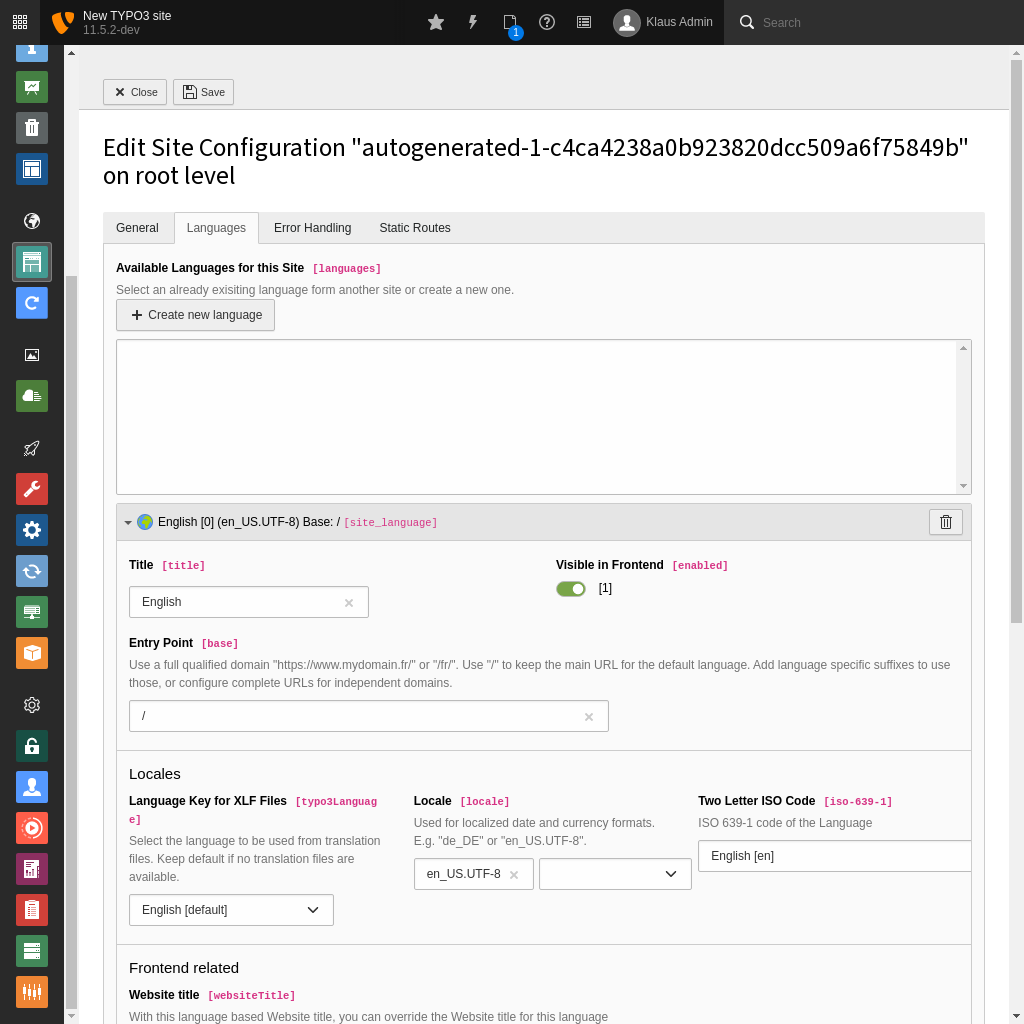
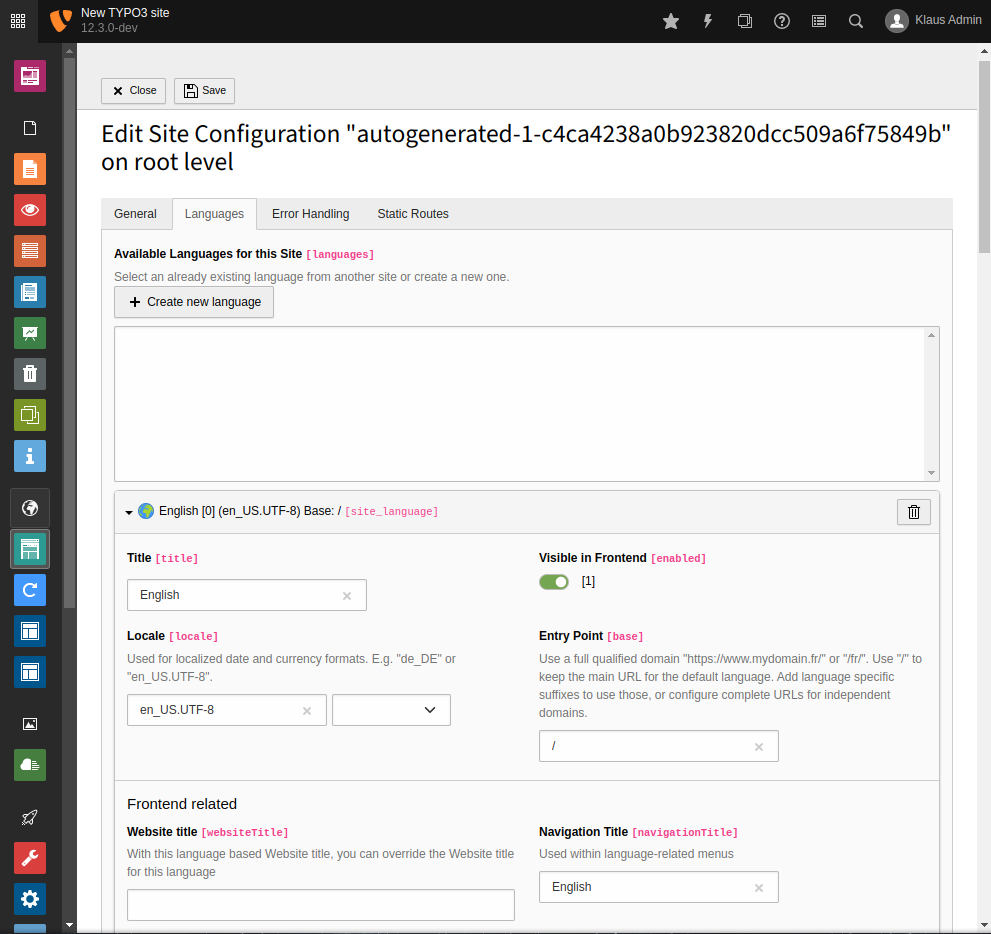
[TASK] Deprecate language-related site management options (#2684)
Resolves: https://github.com/TYPO3-Documentation/Changelog-To-Doc/issues/361
Resolves: https://github.com/TYPO3-Documentation/Changelog-To-Doc/issues/362
Resolves: https://github.com/TYPO3-Documentation/Changelog-To-Doc/issues/363
Resolves: https://github.com/TYPO3-Documentation/Changelog-To-Doc/issues/365
Releases: main

diff --git a/Documentation/ApiOverview/SiteHandling/AddLanguages.rst b/Documentation/ApiOverview/SiteHandling/AddLanguages.rst
@@ -119,22 +119,30 @@ Configuration properties
             base: 'https://testing.example.com/'
             condition: 'applicationContext == "Testing/Paris"'
 
+..  _sitehandling-addingLanguages-locale:
+
 ..  confval:: locale
 
     :type: string / locale
-    :Example: :yaml:`en_GB`
+    :Example: :yaml:`en_GB` or :yaml:`de_DE.utf8,de_DE`
 
     The locale to use for this language. For example, it is used during frontend
     rendering. That locale needs to be installed on the server. In a Linux
     environment, you can see installed locales with :bash:`locale -a`. Multiple
     fallback locales can be set as a comma-separated list. TYPO3 will then
-    iterate through the locales from left to right until it finds a locale, that
+    iterate through the locales from left to right until it finds a locale that
     is installed on the server.
 
 ..  confval:: iso-639-1
 
     :type: string
     :Example: :yaml:`en`
+
+    ..  deprecated:: 12.3
+        It is not needed to set this property anymore, and is removed from the
+        backend UI. The information is now automatically derived from the
+        :ref:`locale <sitehandling-addingLanguages-locale>` setting.
+        Using this property will trigger a PHP deprecation notice.
 
     The two-letter code for the language according to
     `ISO-639 <https://en.wikipedia.org/wiki/List_of_ISO_639-1_codes>`__
@@ -145,12 +153,24 @@ Configuration properties
     :type: string
     :Example: :yaml:`en-GB`
 
+    ..  deprecated:: 12.3
+        It is not needed to set this property anymore, and is removed from the
+        backend UI. The information is now automatically derived from the
+        :ref:`locale <sitehandling-addingLanguages-locale>` setting.
+        Using this property will trigger a PHP deprecation notice.
+
     The frontend language for :html:`hreflang` and :html:`lang` tags.
 
 ..  confval:: direction
 
     :type: string
     :Example: :yaml:`ltr`
+
+    ..  deprecated:: 12.3
+        It is not needed to set this property anymore, and is removed from the
+        backend UI. The information is now automatically derived from the
+        :ref:`locale <sitehandling-addingLanguages-locale>` setting.
+        Using this property will trigger a PHP deprecation notice.
 
     The text direction for content in this language (left-to-right or
     right-to-left).
@@ -159,6 +179,12 @@ Configuration properties
 
     :type: string
     :Example: :yaml:`en`
+
+    ..  deprecated:: 12.3
+        It is not needed to set this property anymore, and is removed from the
+        backend UI. The information is now automatically derived from the
+        :ref:`locale <sitehandling-addingLanguages-locale>` setting.
+        Using this property will trigger a PHP deprecation notice.
 
     Language identifier to use in TYPO3 :ref:`XLIFF files <xliff_api>`.
 

diff --git a/Documentation/ApiOverview/SiteHandling/BaseVariants.rst b/Documentation/ApiOverview/SiteHandling/BaseVariants.rst
@@ -51,7 +51,7 @@ Example
 =======
 
 .. code-block:: yaml
-   :caption: config/sites/somesite/config.yaml
+   :caption: config/sites/<some_site>/config.yaml | typo3conf/sites/<some_site>/config.yaml
 
    rootPageId: 1
    base: 'https://example.org/'
@@ -70,40 +70,34 @@ Example
        condition: 'getenv("TYPO3_BASE")'
    languages:
      -
-       title: 'Global'
+       title: English
        enabled: true
-       languageId: '0'
+       locale: en_US.UTF-8
        base: /
-       typo3Language: default
-       locale: en_UK.UTF-8
-       iso-639-1: en
+       websiteTitle: ''
        navigationTitle: English
-       hreflang: gb-en
-       direction: ''
        flag: gb
+       languageId: 0
      -
-       title: 'DE'
+       title: Deutsch
        enabled: true
-       languageId: '1'
-       base: https://example.de/'
+       locale: de_DE.UTF-8
+       base: 'https://example.net/'
        baseVariants:
          -
            base: 'https://de.example.localhost/'
            condition: 'applicationContext == "Development"'
          -
-           base: 'https://staging.example.de/'
+           base: 'https://staging.example.net/'
            condition: 'applicationContext == "Production/Sydney"'
          -
-           base: 'https://testing.example.de/'
+           base: 'https://testing.example.net/'
            condition: 'applicationContext == "Testing/Paris"'
-       typo3Language: de
-       locale: de_DE.UTF-8
-       iso-639-1: de
+       websiteTitle: ''
        navigationTitle: Deutsch
-       hreflang: de-de
-       direction: ''
        fallbackType: strict
        flag: de
+       languageId: 1
 
 
 .. index:: Site handling; Base variant properties

diff --git a/Documentation/ApiOverview/SiteHandling/Basics.rst b/Documentation/ApiOverview/SiteHandling/Basics.rst
@@ -10,7 +10,7 @@ Basics
 
 TYPO3 site handling and configuration is the starting point for creating new
 websites. The corresponding modules are found in the TYPO3 backend in the
-section :guilabel:`Site management`.
+section :guilabel:`Site Management`.
 
 A site configuration consists of the following parts:
 
